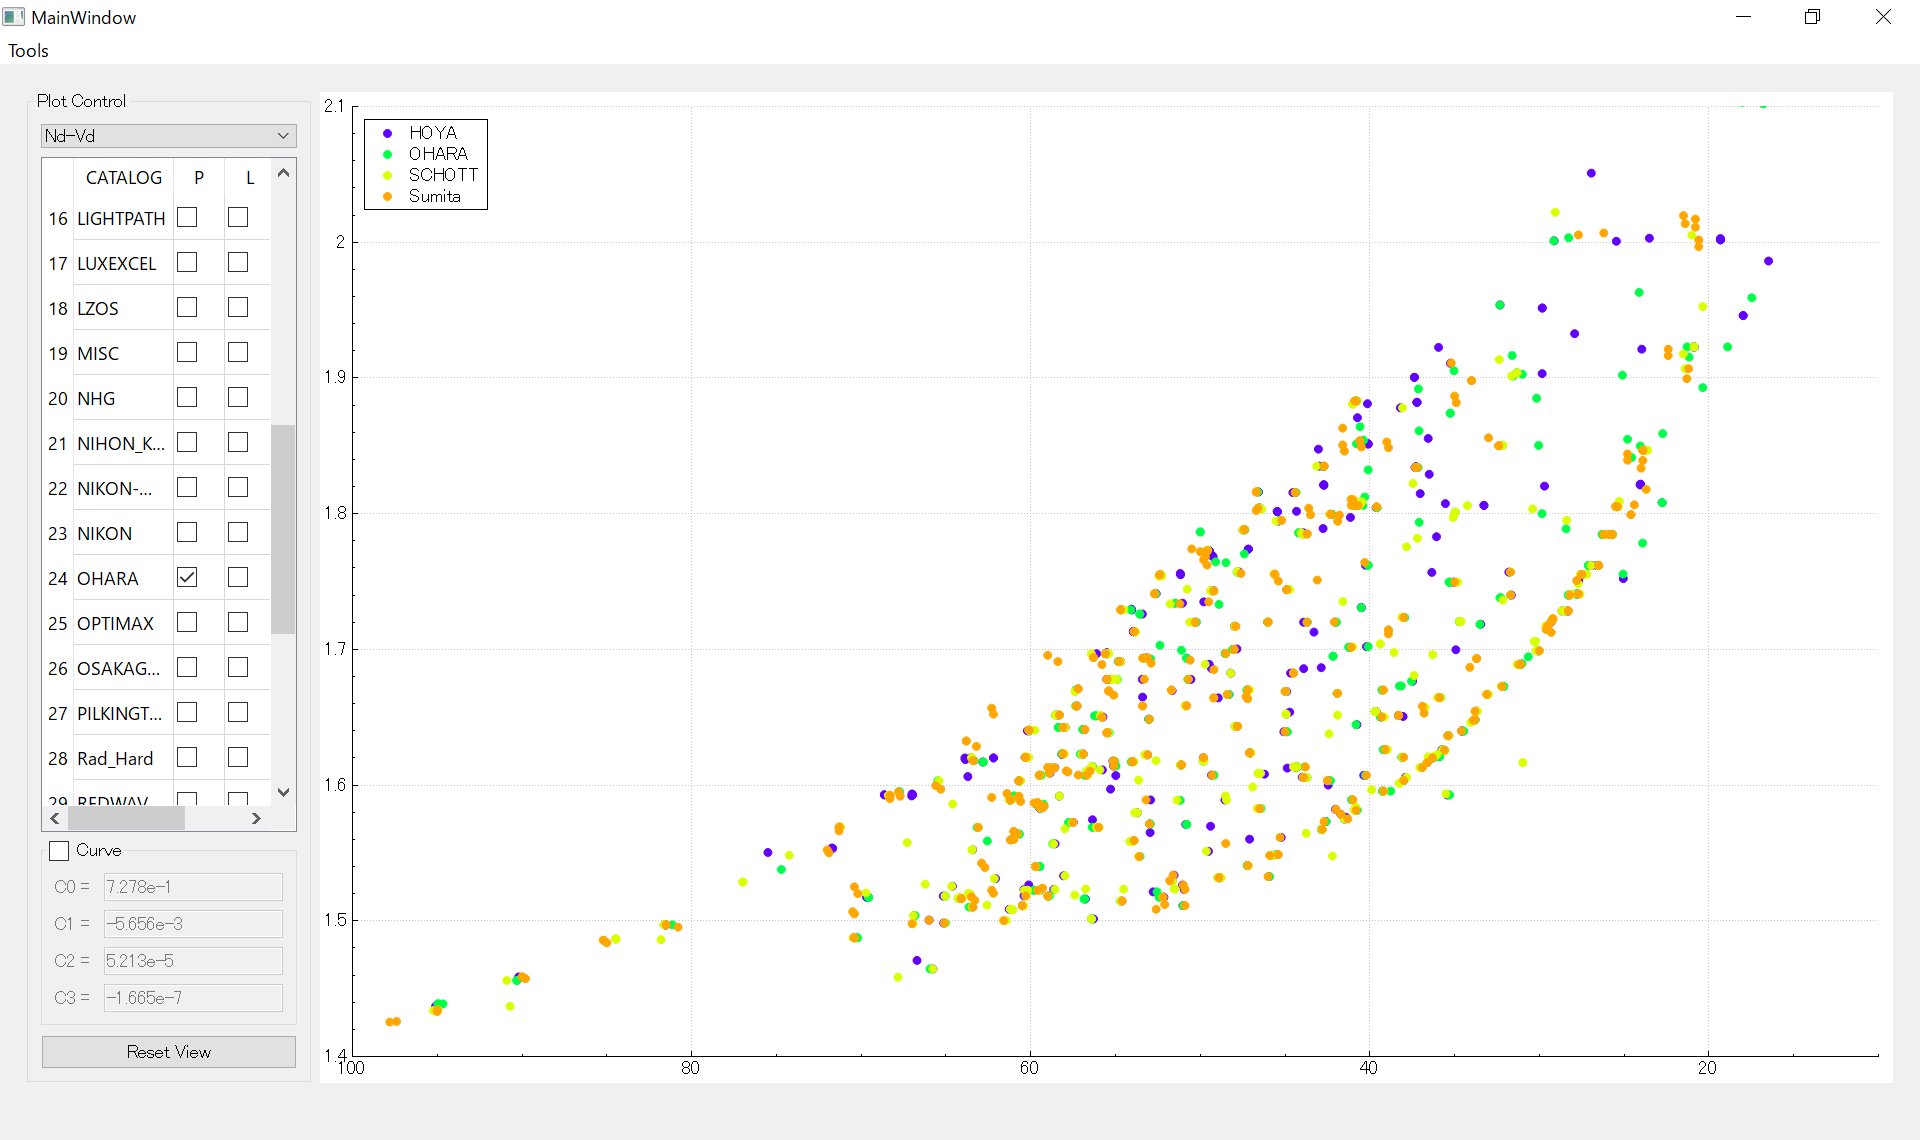
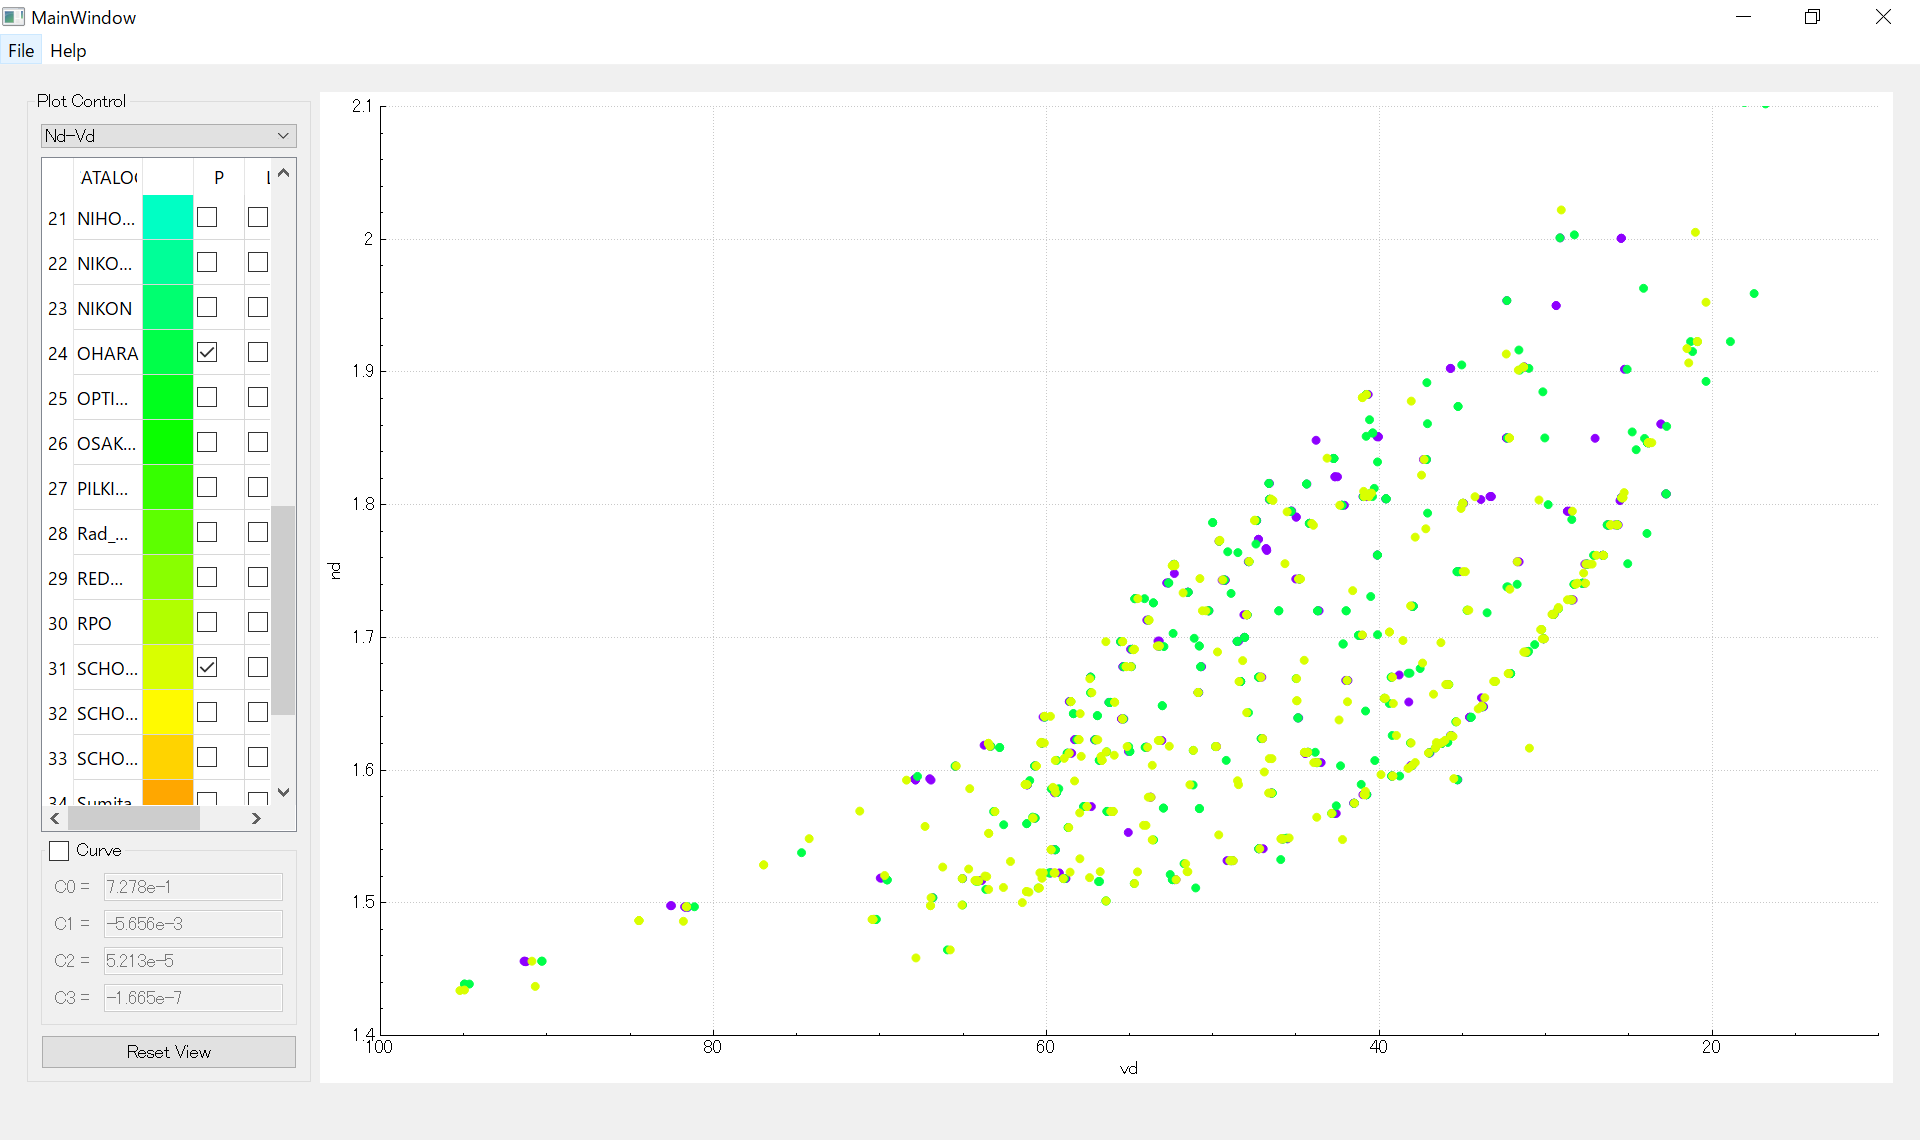
revised README

diff --git a/README.md b/README.md
@@ -3,14 +3,15 @@
 ![demo](image/screenshot.png)
 
 ## Overview
-GlassPlotter is a open source, simple glass map viewer.  This application is aiming to be a comprehensive glass catalog explorer to supprt diverse optical engineers.
+GlassPlotter is a open source, desktop glass map viewer.  This application aims to be a comprehensive glass explorer, which would be helpful for diverse optical engineers.
 
 
 ## Getting Started
 Package for Windows can be downloaded [here](https://github.com/heterophyllus/glassplotter/releases/tag/v0.1.1).
+  Just run GlassPlotter.exe.
 
 ## Resources
-This application extracts glass data from Zemax AGF file.  Each AGF file can be downloaded from the supplyer's website. If Zemax has been installed, they are supposed to be contained in the folder like Documents/Zemax/Glasscat.
+This application extracts glass data from Zemax AGF file.  Each AGF file can be downloaded from the supplyer's web site. If Zemax has been installed, they are contained in the folder like Documents/Zemax/Glasscat.
 
 
 ## Development
@@ -18,21 +19,25 @@ This application is built with;
 - [Qt and QtCreator](https://www.qt.io)
 - [QCustomPlot](https://www.qcustomplot.com)
 
-This project is under development and far away from completion.  Following features are going to be implemented.
+This project is under development and still far from completion.  Following features are going to be implemented.
 
   + [ ] Glass Map
       - [x] nd-vd
+      - [x] ne-ve
       - [x] vd-PgF
-      - [ ] nF-nC
-      - [ ] nd-dn/dT
       - [x] User Defined Curve
   + [ ] Glass Dispersion Plot
   + [ ] Glass Catalog View
   
 
 ## License
-This project is licensed under the GPL License - see the LICENSE for details.
+This project is licensed under the GPL License - see the [LICENSE](LICENSE.md) for details.
 
 ## Contribution
-Contributions and feedbacks are greatly appreciated.
+Contributions and feedbacks are always welcome.
 
+## Acknowledgement
+This project is inspired by several preceding repositories.  I would like to express my respect for following remarkable ones.
+- [mjhoptics/opticalglass](https://github.com/mjhoptics/opticalglass) :
+  glass map viewer with simple GUI, written in python.
+- [nzhagen/zemaxglass](https://github.com/nzhagen/zemaxglass) : python suite to utilize Zemax glass data.
